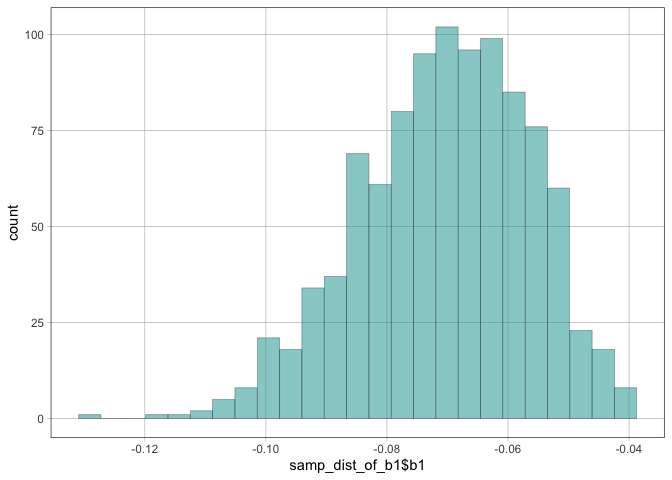
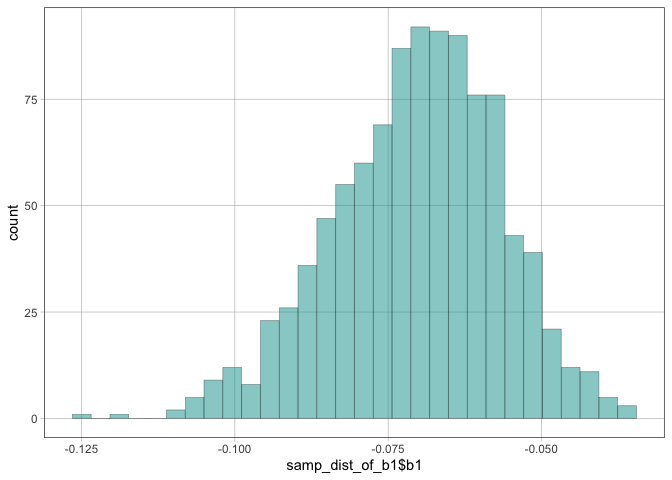
docs: add lite badge to readme

diff --git a/README.md b/README.md
@@ -10,6 +10,7 @@ status](https://www.r-pkg.org/badges/version/coursekata)](https://CRAN.R-project
 [![R build
 status](https://github.com/coursekata/coursekata-r/workflows/R-CMD-check/badge.svg)](https://github.com/coursekata/coursekata-r/actions)
 [![codecov](https://codecov.io/gh/coursekata/coursekata-r/branch/main/graph/badge.svg?token=HEenoYyHcn)](https://app.codecov.io/gh/coursekata/coursekata-r)
+[![lite-badge](https://jupyterlite.rtfd.io/en/latest/_static/badge.svg)](https://coursekata.github.io/coursekata-r/)
 <!-- badges: end -->
 
 ## Overview
@@ -68,18 +69,6 @@ to the [functions and theme](#functions-and-theme) included in the
 
 ``` r
 library(coursekata)
-#> ── CourseKata packages ──────────────────────────── coursekata 0.18.1 ──
-#> ✔ dslabs              0.8.0       ✔ Metrics             0.1.4
-#> ✔ Lock5withR          1.2.2       ✔ lsr                 0.5.2
-#> ✔ fivethirtyeightdata 0.1.0       ✔ mosaic              1.9.1
-#> ✔ fivethirtyeight     0.6.2       ✔ supernova           3.0.0
-#> 
-#> Attaching package: 'coursekata'
-#> 
-#> 
-#> The following object is masked from 'package:datasets':
-#> 
-#>     penguins
 ```
 
 - [supernova](https://cran.r-project.org/package=supernova), for
@@ -171,6 +160,7 @@ samp_dist_of_b1 <- do(1000) * b1(lm(mpg ~ hp, data = resample(mtcars)))
 
 # plot the bootstrapped estimates
 gf_histogram(~ samp_dist_of_b1$b1)
+#> `stat_bin()` using `bins = 30`. Pick better value `binwidth`.
 ```
 
 ![](man/figures/README-samp_dist_of_b1-1.png)<!-- -->
@@ -190,6 +180,7 @@ samp_dist_of_hp <- do(1000) * {
 
 # plot the bootstrapped estimates
 gf_histogram(~ samp_dist_of_hp$result)
+#> `stat_bin()` using `bins = 30`. Pick better value `binwidth`.
 ```
 
 ![](man/figures/README-samp_dist_of_hp-1.png)<!-- -->
@@ -206,6 +197,7 @@ shade in those areas:
 ``` r
 # shade in the middle 80% of the Thumb distribution
 gf_histogram(~Thumb, data = Fingers, fill = ~ middle(Thumb, .80))
+#> `stat_bin()` using `bins = 30`. Pick better value `binwidth`.
 ```
 
 ![](man/figures/README-shaded_middle-1.png)<!-- -->
